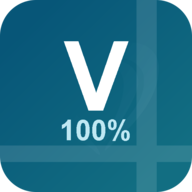
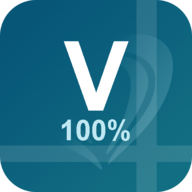
Vykonak 8.6 vyraznejsi srdce v ikone

Changed region(s): [[0.5938, 0.25, 0.9062, 0.7812], [0.6562, 0.5312, 0.7188, 0.625], [0.5, 0.8438, 0.5312, 0.875]]

diff --git a/index.html b/index.html
@@ -11,7 +11,7 @@
     <link rel="manifest" href="manifest.webmanifest">
     <link rel="icon" href="icon-192.png">
     <link rel="apple-touch-icon" href="icon-192.png">
-    <link rel="stylesheet" href="styles.css?v=85">
+    <link rel="stylesheet" href="styles.css?v=86">
   </head>
   <body>
     <div class="app-shell">
@@ -22,7 +22,7 @@
           <h1>Výkoňák</h1>
         </div>
         <div class="topbar-actions">
-          <span class="app-version">v8.5</span>
+          <span class="app-version">v8.6</span>
           <div class="company-mark" aria-label="SOLEA výrobní družstvo">
             <strong>SOLEA</strong>
             <span>výrobní družstvo</span>
@@ -353,7 +353,7 @@
       </section>
     </div>
 
-    <script src="app.js?v=85" defer></script>
+    <script src="app.js?v=86" defer></script>
   </body>
 </html>
 

diff --git a/sw.js b/sw.js
@@ -1,9 +1,9 @@
-const CACHE_NAME = "vykonak-kalkulator-v85";
+const CACHE_NAME = "vykonak-kalkulator-v86";
 const ASSETS = [
   "./",
   "./index.html",
-  "./styles.css?v=85",
-  "./app.js?v=85",
+  "./styles.css?v=86",
+  "./app.js?v=86",
   "./manifest.webmanifest",
   "./icon.svg",
   "./icon-192.png",
